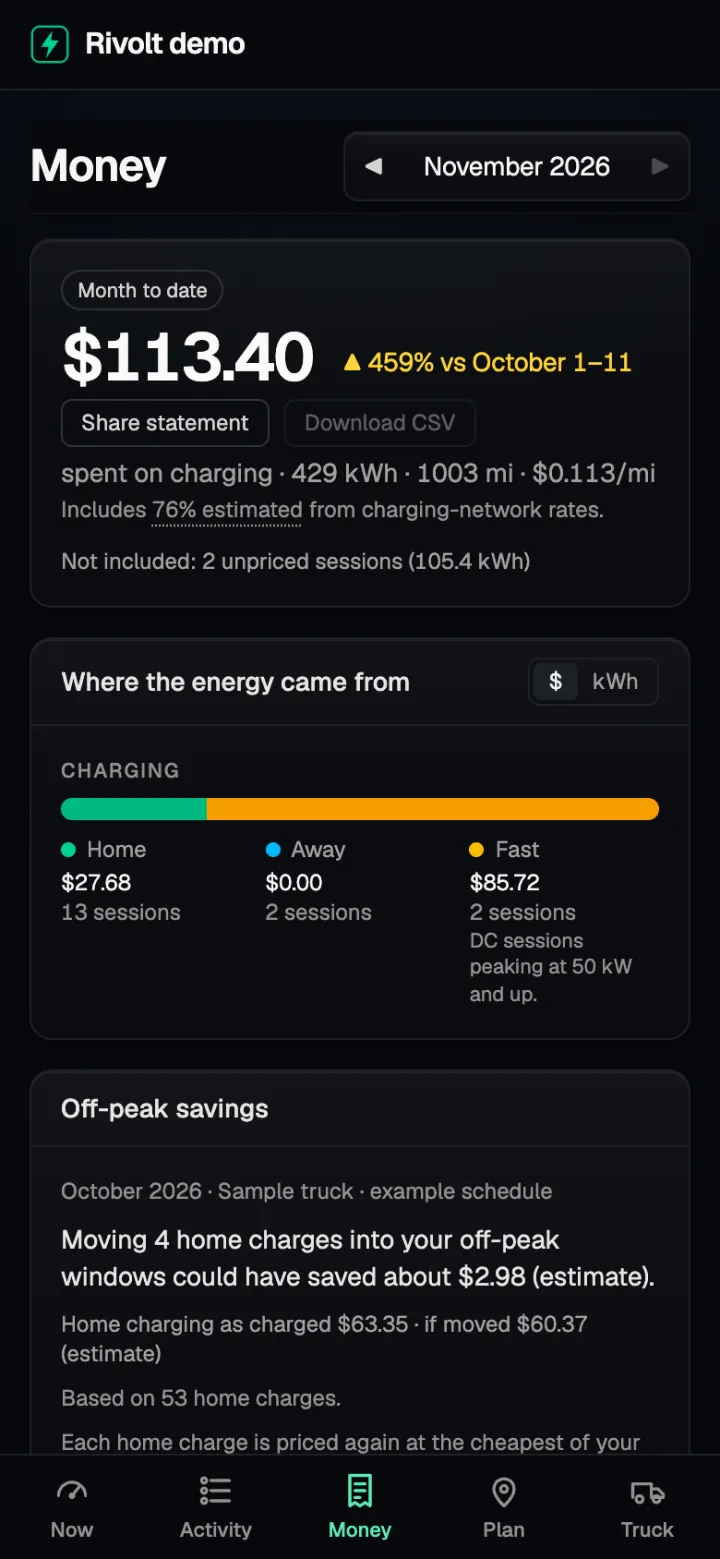
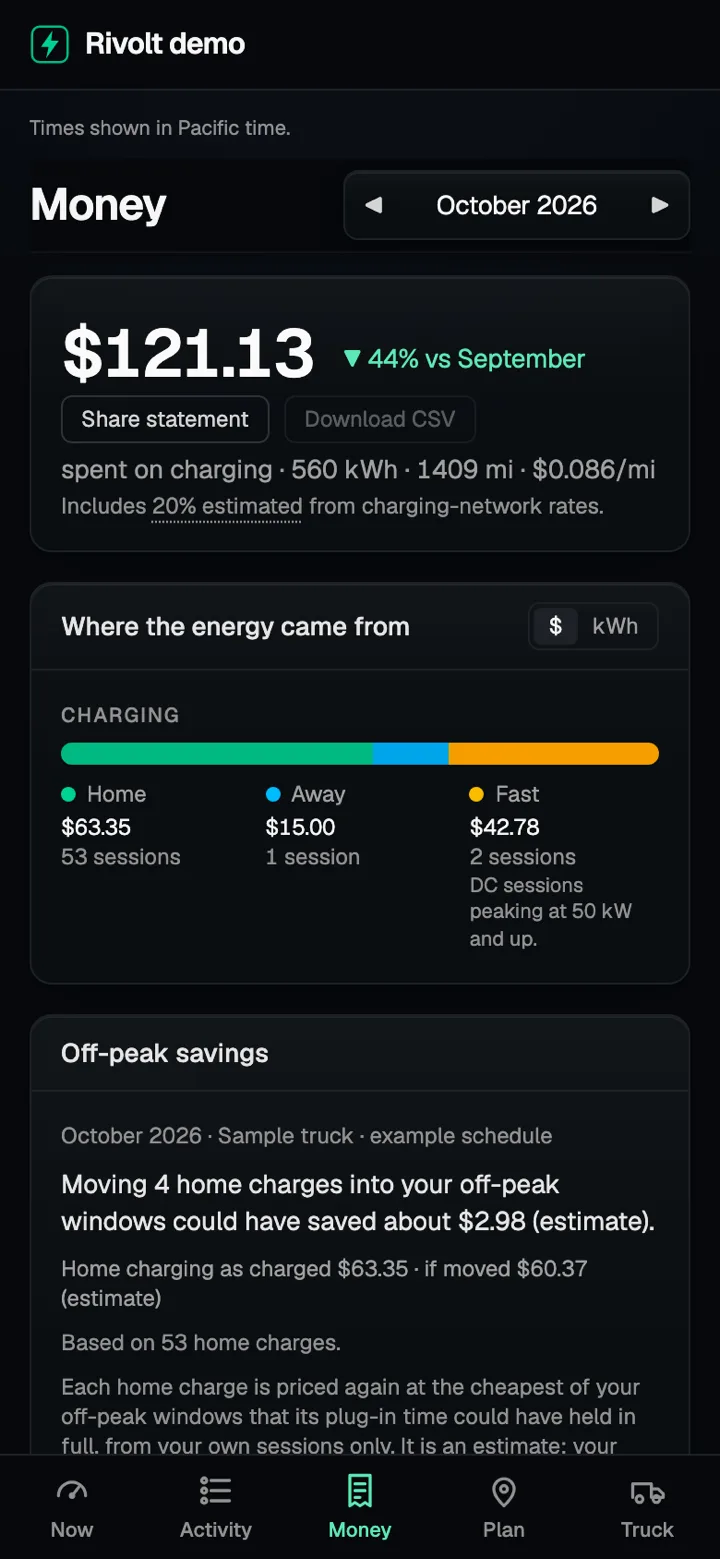
web: main page money shot, receipts line, sample-trip link
- Money screenshot retaken from the demo on October 2026 (no alarming
  month-over-month jump), same framing as the other phone shots.
- "Receipts for your charges" instead of "a receipt for every session":
  unpriced sessions exist.
- "Plan a sample trip" opens the hero's Las Vegas plan via ?preset=, so
  the demo shows its cost straight away.

diff --git a/web/src/pages/LandingPage.test.tsx b/web/src/pages/LandingPage.test.tsx
@@ -44,7 +44,7 @@ describe("LandingPage", () => {
     cfg.features.demoEnabled = true;
     try {
       renderPage();
-      for (const a of screen.getAllByRole("link", { name: "Plan a sample trip" })) expect(a).toHaveAttribute("href", "/demo/trips/plan");
+      for (const a of screen.getAllByRole("link", { name: "Plan a sample trip" })) expect(a).toHaveAttribute("href", "/demo/trips/plan?preset=7041ba4f-947f-50d3-882d-e5f5f9d08b82");
       expect(screen.getByRole("link", { name: "Try the demo" })).toHaveAttribute("href", "/demo");
     } finally {
       cfg.features.demoEnabled = false;
@@ -54,7 +54,7 @@ describe("LandingPage", () => {
   it("links the public demo host on rivolt.dev", () => {
     onHost("rivolt.dev", () => {
       renderPage();
-      expect(screen.getAllByRole("link", { name: "Plan a sample trip" })[0]).toHaveAttribute("href", "https://demo.rivolt.dev/demo/trips/plan");
+      expect(screen.getAllByRole("link", { name: "Plan a sample trip" })[0]).toHaveAttribute("href", "https://demo.rivolt.dev/demo/trips/plan?preset=7041ba4f-947f-50d3-882d-e5f5f9d08b82");
       expect(screen.getByRole("link", { name: "Try the demo" })).toHaveAttribute("href", "https://demo.rivolt.dev/demo");
       expect(screen.getByText(/ZeroDowntime LLC/)).toBeTruthy();
     });

diff --git a/web/src/pages/LandingPage.tsx b/web/src/pages/LandingPage.tsx
@@ -21,6 +21,9 @@ const REPO = "https://github.com/apohor/rivolt";
 // instance the page links there; a self-host has no such host and shows
 // its in-app /demo only when its operator enabled it.
 const DEMO_URL = "https://demo.rivolt.dev";
+// The hero's sample trip (Las Vegas weekend, internal/demo/trips): the CTA
+// opens that same plan, cost included, in the demo planner.
+const SAMPLE_TRIP = "/demo/trips/plan?preset=7041ba4f-947f-50d3-882d-e5f5f9d08b82";
 
 function Arrow() {
   return (
@@ -90,7 +93,7 @@ export default function LandingPage() {
   const ctas = (where: "hero" | "footer") => (
     <div className="cta">
       {demo && (
-        <DemoLink path="/demo/trips/plan" where={where} className="btn go">
+        <DemoLink path={SAMPLE_TRIP} where={where} className="btn go">
           Plan a sample trip
           <Arrow />
         </DemoLink>

diff --git a/web/src/pages/landing/PhoneTour.tsx b/web/src/pages/landing/PhoneTour.tsx
@@ -24,9 +24,9 @@ const CHAPTERS = [
   {
     num: "Money",
     title: "What charging actually cost.",
-    body: "A receipt for every session and a real cost per mile.",
+    body: "Receipts for your charges and a real cost per mile.",
     shot: moneyShot,
-    alt: "Rivolt Money screen for the demo truck with the month's charging cost",
+    alt: "Rivolt Money screen for the demo truck: October's charging cost, split into home, away and fast charging",
     halo: "rgba(245,158,11,.24)",
   },
 ];
